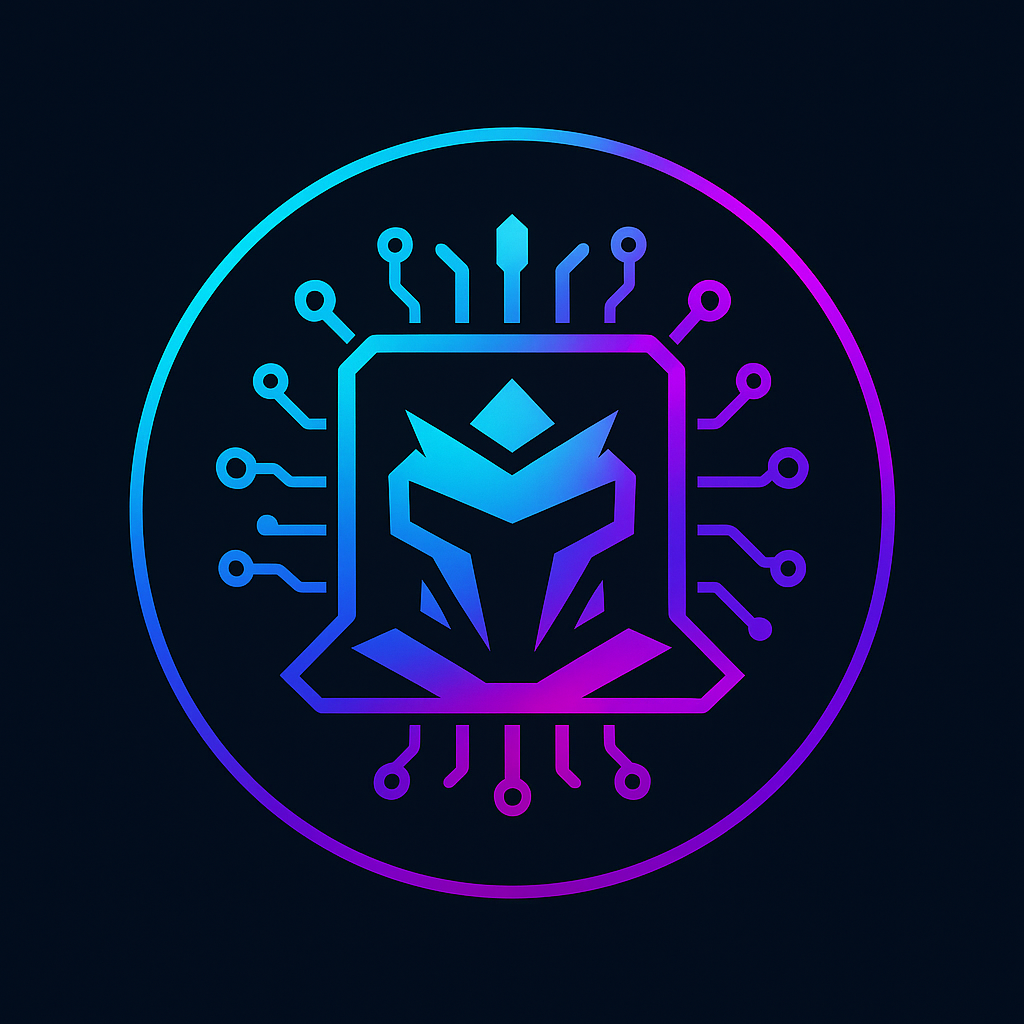
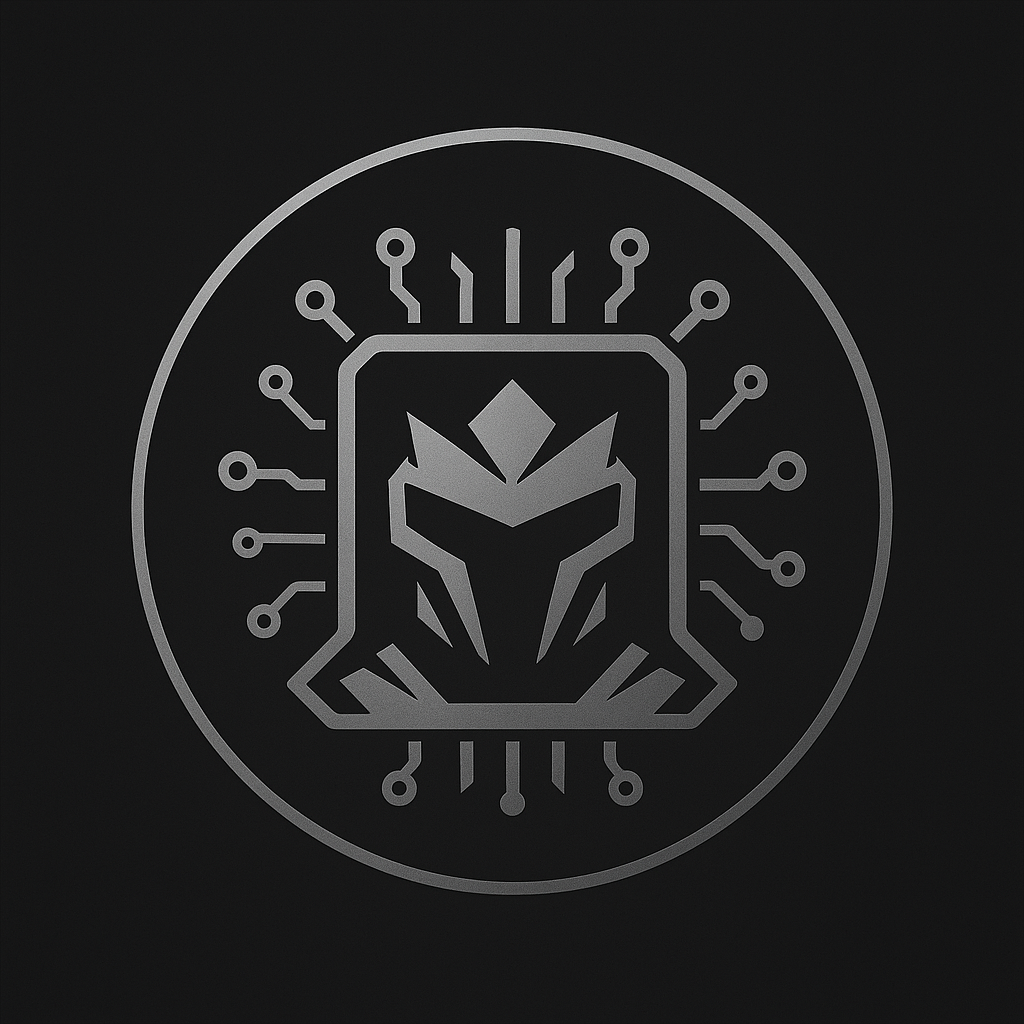
fix: img-profile

Changed region(s): [[0.1875, 0.2188, 0.8125, 0.8125], [0.125, 0.125, 0.875, 0.875], [0.7188, 0.5938, 0.75, 0.625]]

diff --git a/index.html b/index.html
@@ -10,7 +10,7 @@
     <main>
         <header>
             <hgroup>
-                <img src="img/img-profile.jpg" alt="ProfilPerso">
+                <img src="img/img-perso.png" alt="ProfilPerso">
                 <h1>
                     Thomas Lombardot
                 </h1>
@@ -37,7 +37,7 @@
                 <ul>
                     <li>198, rue de la République</li>
                     <li>69002 Lyon</li>
-                    <li><a href = "http://www.logogenie.fr">http://www.logogenie.fr</a></li>
+                    <li><a href = "http://www.logogenie.fr" target="_blank">http://www.logogenie.fr</a></li>
                 </ul>
             </address>
         </section>
